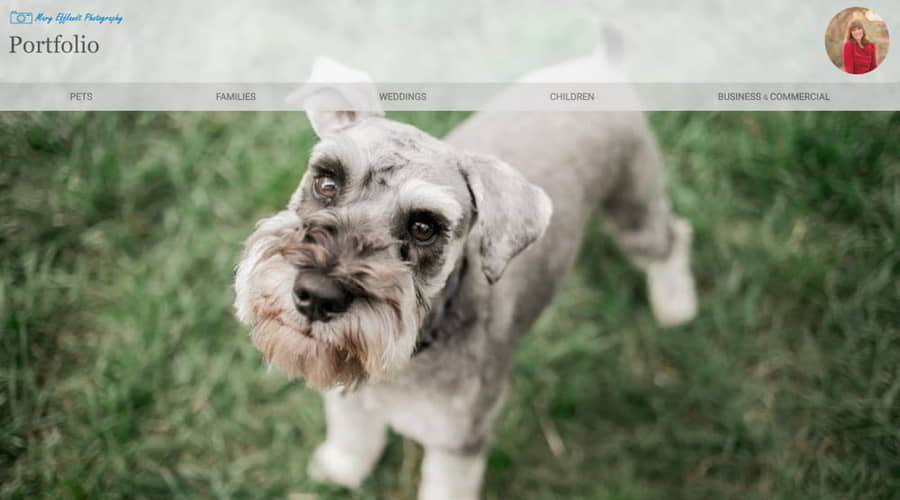
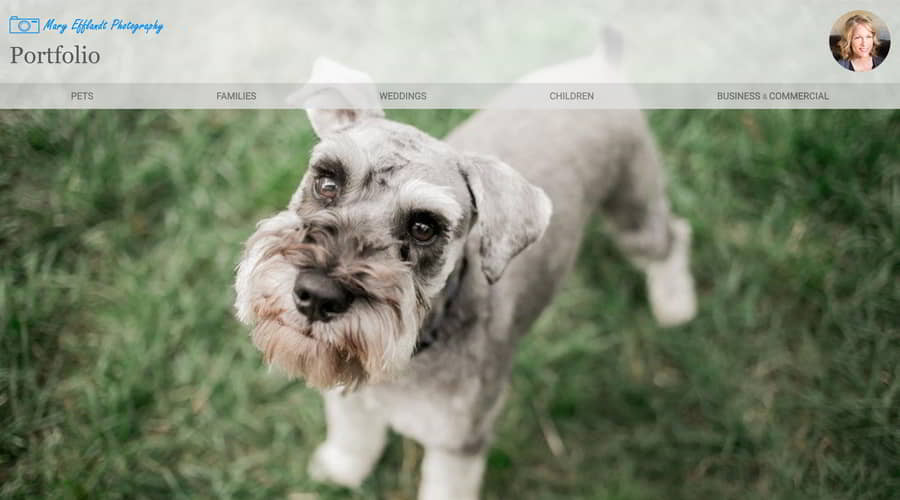
changed "blank" to "_blank" for demo to open a new window everytime...
changed mep image (recent)

diff --git a/index.html b/index.html
@@ -247,7 +247,7 @@ if (!doNotTrack) {
 			
 			
 			<div class="flex flex2" style="margin-bottom: -60px;">
-				<p class="text-center"><a href="https://full-stack-weather-application.herokuapp.com/" target="blank" class="btn btn-action content-button">DEMO</a></p>
+				<p class="text-center"><a href="https://full-stack-weather-application.herokuapp.com/" target="_blank" class="btn btn-action content-button">DEMO</a></p>
 				
 				
 			</div>
@@ -285,7 +285,7 @@ if (!doNotTrack) {
 			
 			
 			<div class="flex flex2" style="margin-bottom: -60px;">
-				<p class="text-center"><a href="https://django-translator-app.herokuapp.com/" target="blank" class="btn btn-action content-button">DEMO</a></p>
+				<p class="text-center"><a href="https://django-translator-app.herokuapp.com/" target="_blank" class="btn btn-action content-button">DEMO</a></p>
 				
 				
 			</div>
@@ -324,7 +324,7 @@ if (!doNotTrack) {
 			
 			
 			<div class="flex flex2" style="margin-bottom: -60px;">
-				<p class="text-center"><a href="https://byron42.github.io/react-demo__tic-tac-toe/" target="blank" class="btn btn-action content-button">DEMO</a></p>
+				<p class="text-center"><a href="https://byron42.github.io/react-demo__tic-tac-toe/" target="_blank" class="btn btn-action content-button">DEMO</a></p>
 				
 				
 			</div>
@@ -403,7 +403,7 @@ Bootstrap, JavaScript, SDLC, SEO, wire framing</p>
 			
 			
 			<div class="flex flex2" style="margin-bottom: -60px;">
-				<p class="text-center"><a href="https://m-e-p.herokuapp.com/" target="blank" class="btn btn-action content-button">DEMO</a></p>
+				<p class="text-center"><a href="https://m-e-p.herokuapp.com/" target="_blank" class="btn btn-action content-button">DEMO</a></p>
 				
 				
 			</div>
@@ -443,7 +443,7 @@ Bootstrap, JavaScript, SDLC, SEO, wire framing</p>
 			
 			
 			<div class="flex flex2" style="margin-bottom: -60px;">
-				<p class="text-center"><a href="https://byron42.github.io/react-demo__expense-tracker/" target="blank" class="btn btn-action content-button">DEMO</a></p>
+				<p class="text-center"><a href="https://byron42.github.io/react-demo__expense-tracker/" target="_blank" class="btn btn-action content-button">DEMO</a></p>
 				
 				
 			</div>
